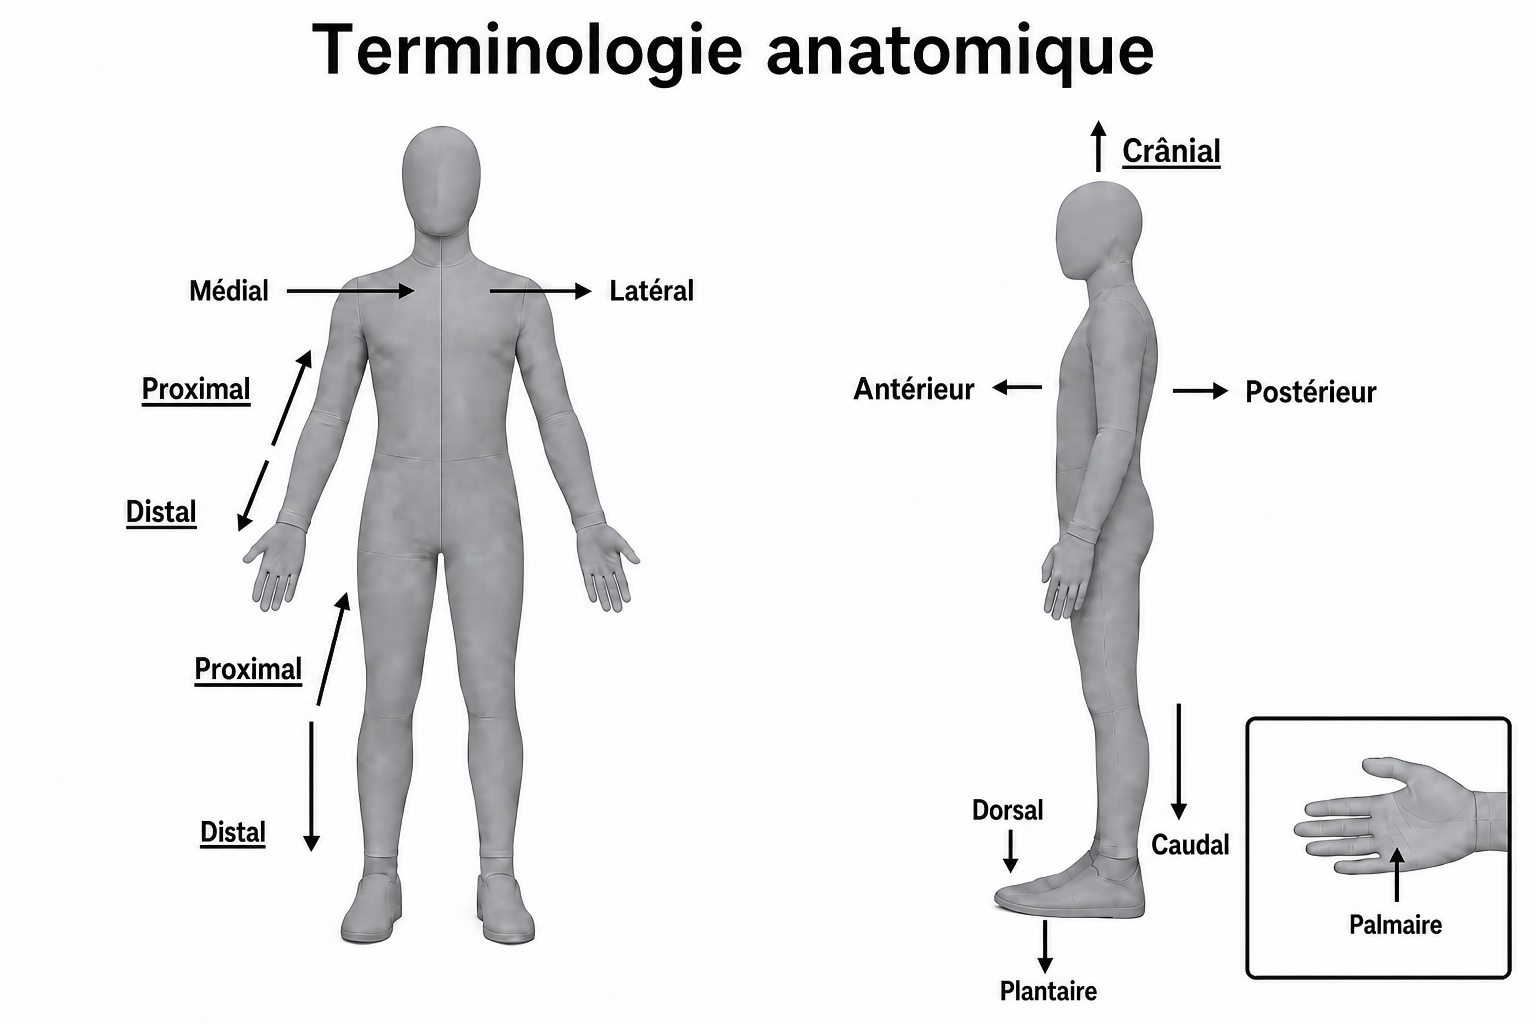
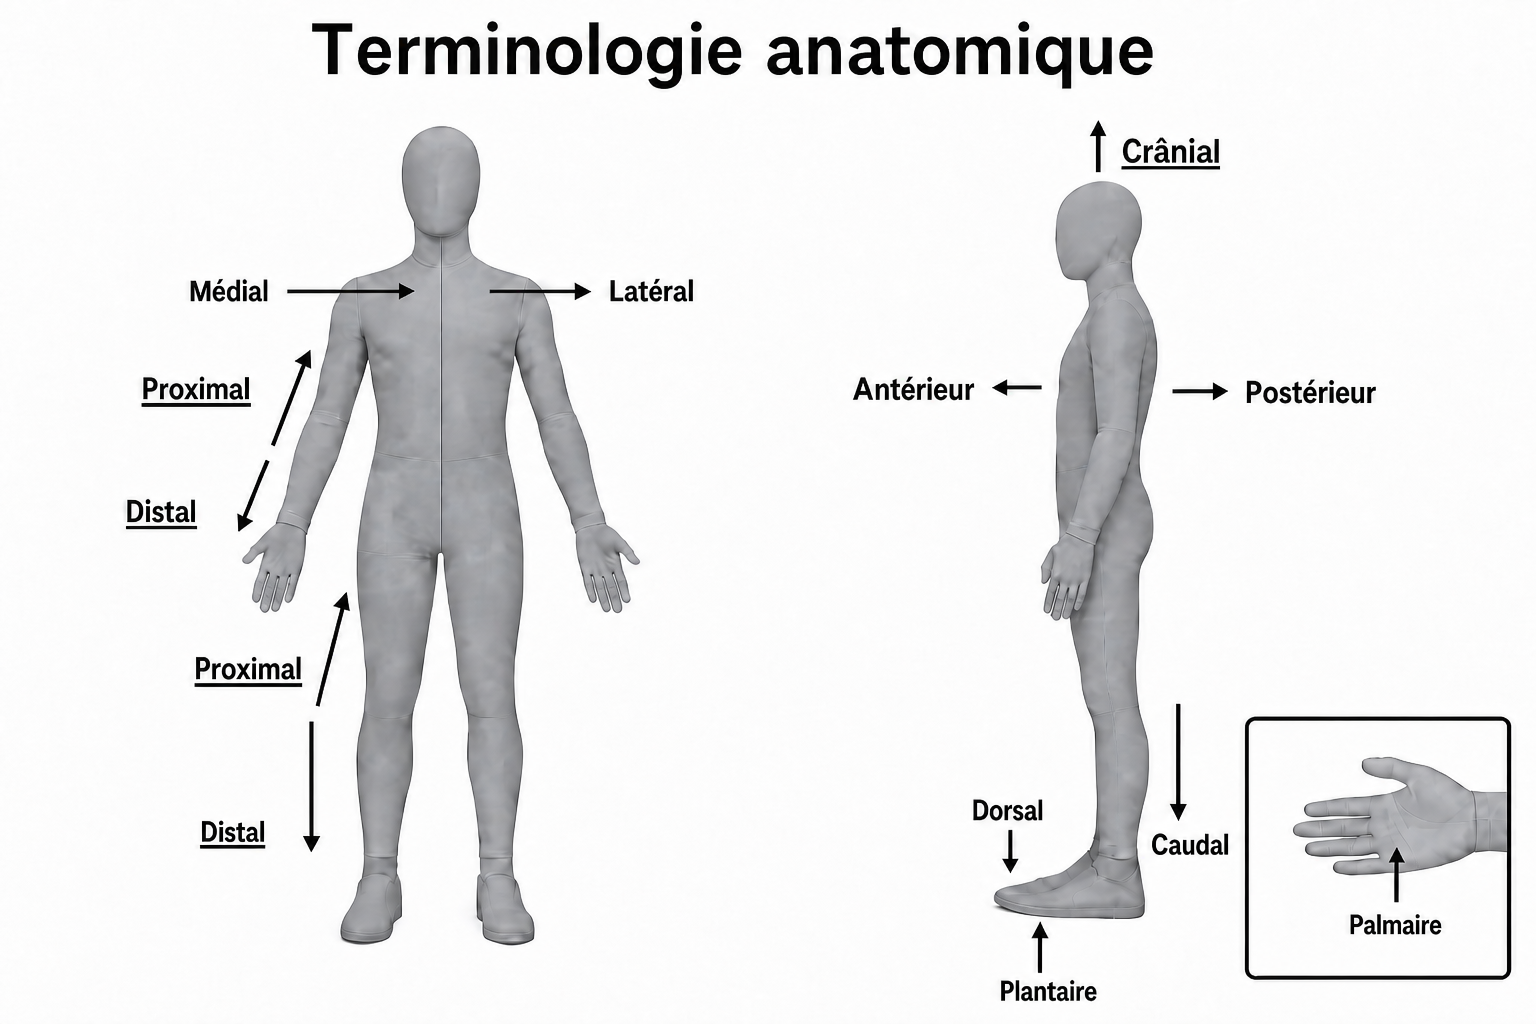
Plantaire arrow points up on ch01 terminologie schema.

diff --git a/data/flash/ch01.js b/data/flash/ch01.js
@@ -58,7 +58,7 @@
     { id: "FC-ANAT-01-049", chapter: "01", priority: "P3", kind: "text", front: "Terminologia anatomica : année ?", back: "1998 — langage anatomique international commun." },
     { id: "FC-ANAT-01-S01", chapter: "01", priority: "P1", kind: "schema", front: "Schéma — Position anatomique de référence", back: "Position anatomique de référence", frontImg: "matiere/anatomie/img/ch01/blank/01_position_anatomique.png", backImg: "matiere/anatomie/img/ch01/01_position_anatomique.png" },
     { id: "FC-ANAT-01-S02", chapter: "01", priority: "P1", kind: "schema", front: "Schéma — Axe médian", back: "Axe médian", frontImg: "matiere/anatomie/img/ch01/blank/02_axe_median.png", backImg: "matiere/anatomie/img/ch01/02_axe_median.png" },
-    { id: "FC-ANAT-01-S03", chapter: "01", priority: "P2", kind: "schema", front: "Schéma — Terminologie anatomique", back: "Terminologie anatomique", frontImg: "matiere/anatomie/img/ch01/blank/03_terminologie.png?v=rule4", backImg: "matiere/anatomie/img/ch01/03_terminologie.png?v=rule4" },
+    { id: "FC-ANAT-01-S03", chapter: "01", priority: "P2", kind: "schema", front: "Schéma — Terminologie anatomique", back: "Terminologie anatomique", frontImg: "matiere/anatomie/img/ch01/blank/03_terminologie.png?v=rule5", backImg: "matiere/anatomie/img/ch01/03_terminologie.png?v=rule5" },
     { id: "FC-ANAT-01-S04", chapter: "01", priority: "P2", kind: "schema", front: "Schéma — Morphologie externe", back: "Morphologie externe", frontImg: "matiere/anatomie/img/ch01/blank/04_morpho_externe_coeur.png", backImg: "matiere/anatomie/img/ch01/04_morpho_externe_coeur.png" },
     { id: "FC-ANAT-01-S05", chapter: "01", priority: "P2", kind: "schema", front: "Schéma — Morphologie interne", back: "Morphologie interne", frontImg: "matiere/anatomie/img/ch01/blank/05_morpho_interne_coeur.png", backImg: "matiere/anatomie/img/ch01/05_morpho_interne_coeur.png" },
     { id: "FC-ANAT-01-S06", chapter: "01", priority: "P2", kind: "schema", front: "Schéma — Régions du corps", back: "Régions du corps", frontImg: "matiere/anatomie/img/ch01/blank/06_regions_corps.png", backImg: "matiere/anatomie/img/ch01/06_regions_corps.png" },

diff --git a/matiere/anatomie/ch01.html b/matiere/anatomie/ch01.html
@@ -113,7 +113,7 @@
       <div class="callout trap"><strong>Attention / piège</strong> Proximal/distal = origine du membre · Médial/latéral = plan médian.</div>
 
       <figure class="schema">
-        <img src="./img/ch01/03_terminologie.png?v=rule4" alt="Terminologie anatomique" />
+        <img src="./img/ch01/03_terminologie.png?v=rule5" alt="Terminologie anatomique" />
       </figure>
 
       <div class="label-quiz" data-labels='[["cranial","superieur"],["caudal","inferieur"],["proximal"],["distal"],["homolateral","ipsilateral"],["contralateral","controlateral"],["medial","interne"],["lateral","externe"]]'>
